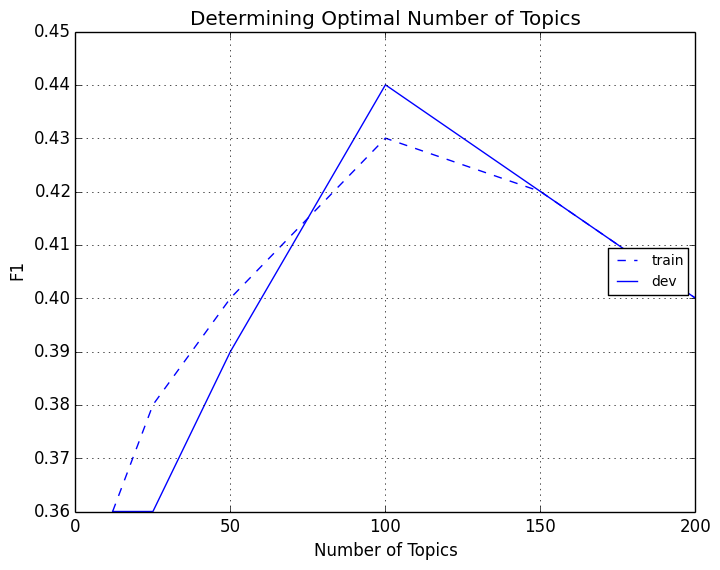
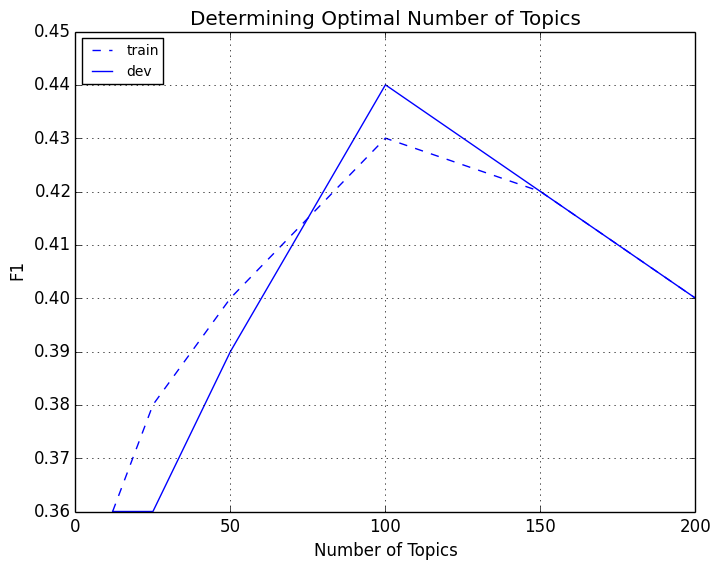
changed lda plot

Changed region(s): [[0.825, 0.4175, 0.9778, 0.5368], [0.0917, 0.0596, 0.2444, 0.1491]]

diff --git a/plots/plot_topics_lda.py b/plots/plot_topics_lda.py
@@ -15,7 +15,7 @@ ax.plot(x, dev, color='b', linestyle='-', label='dev')
 fontP = FontProperties()
 fontP.set_size('small')
 #, bbox_to_anchor=(0.7,-0.1
-lgd = ax.legend(prop=fontP, loc=5)
+lgd = ax.legend(prop=fontP, loc=2)
 plt.title('Determining Optimal Number of Topics')
 plt.xlabel('Number of Topics')
 plt.ylabel('F1')
